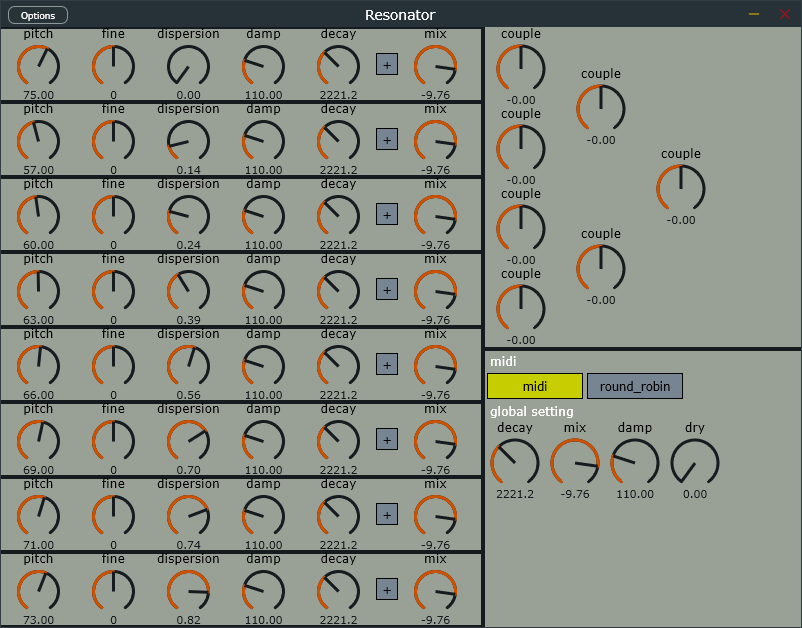
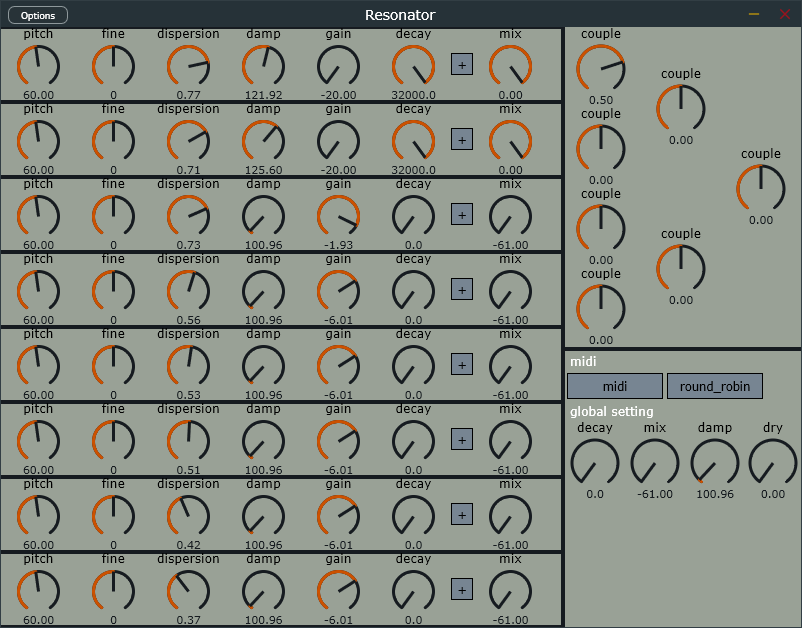
update

diff --git a/plugins/resonator/source/PluginProcessor.cpp b/plugins/resonator/source/PluginProcessor.cpp
@@ -43,6 +43,15 @@ ResonatorAudioProcessor::ResonatorAudioProcessor()
         damp_pitch_[i] = p.get();
         layout.add(std::move(p));
     }
+    for (size_t i = 0; i < kNumResonators; ++i) {
+        auto p = std::make_unique<juce::AudioParameterFloat>(
+            juce::String{"gain"} + juce::String{i},
+            juce::String{"gain"} + juce::String{i},
+            -20.0f, 0.0f, -6.01f
+        );
+        damp_gain_db_[i] = p.get();
+        layout.add(std::move(p));
+    }
     {
         auto p = std::make_unique<juce::AudioParameterFloat>(
             "global_damp",
@@ -95,7 +104,7 @@ ResonatorAudioProcessor::ResonatorAudioProcessor()
         auto p = std::make_unique<juce::AudioParameterFloat>(
             juce::String{"reflection"} + juce::String{i},
             juce::String{"reflection"} + juce::String{i},
-            -std::numbers::pi_v<float>, std::numbers::pi_v<float>, 0.0f
+            -1.0f, 1.0f, 0.0f
         );
         matrix_reflections_[i] = p.get();
         layout.add(std::move(p));
@@ -242,6 +251,9 @@ void ResonatorAudioProcessor::prepareToPlay (double sampleRate, int samplesPerBl
     delay_.Init(sampleRate, 0.0f);
     delay_.Reset();
     dispersion_.Reset();
+    for (auto& v : frac_delay_) {
+        v.Reset();
+    }
 }
 
 void ResonatorAudioProcessor::releaseResources()
@@ -304,16 +316,18 @@ void ResonatorAudioProcessor::processBlock (juce::AudioBuffer<float>& buffer,
 
     // update scatter matrix
     for (size_t i = 0; i < ScatterMatrix::kNumReflections; ++i) {
-        reflections_[i] = matrix_reflections_[i]->get();
+        reflections_[i] = matrix_reflections_[i]->get() * std::numbers::pi_v<float>;
     }
 
     // update damp filter
     std::array<float, kNumResonators> damp_w;
+    std::array<float, kNumResonators> damp_db;
     for (size_t i = 0; i < kNumResonators; ++i) {
         float const freq = qwqdsp::convert::Pitch2Freq(damp_pitch_[i]->get());
         damp_w[i] = freq * std::numbers::pi_v<float> * 2 / getSampleRate();
+        damp_db[i] = damp_gain_db_[i]->get();
     }
-    damp_.SetFrequency(damp_w);
+    damp_.SetFrequency(damp_w, damp_db);
 
     // update decays
     for (size_t i = 0; i < kNumResonators; ++i) {
@@ -417,6 +431,11 @@ void ResonatorAudioProcessor::ProcessCommon(juce::AudioBuffer<float>& buffer, ju
         delay_samples_[i] = std::max(delay_samples_[i], 0.0f);
     }
 
+    // process frac delays
+    for (size_t i = 0; i < kNumResonators; ++i) {
+        delay_samples_[i] = frac_delay_[i].SetDelay(delay_samples_[i]);
+    }
+
     // processing
     ProcessDSP(left_ptr, num_samples);
 
@@ -436,6 +455,9 @@ void ResonatorAudioProcessor::ProcessDSP(float* ptr, size_t len) {
         }
 
         delay_.Tick(fb_values_, delay_samples_);
+        for (size_t i = 0; i < kNumResonators; ++i) {
+            fb_values_[i] = frac_delay_[i].Tick(fb_values_[i]);
+        }
         dispersion_.Tick(fb_values_);
         damp_.Tick(fb_values_);
         matrix_.Tick(fb_values_, reflections_);
@@ -476,6 +498,9 @@ void ResonatorAudioProcessor::ProcessMidi(juce::AudioBuffer<float>& buffer, juce
                 // remove allpass delays
                 delay_samples_[resonator_idx] = delay_samples - allpass_delay;
                 delay_samples_[resonator_idx] = std::max(delay_samples_[resonator_idx], 0.0f);
+
+                // frac delay
+                delay_samples_[resonator_idx] = frac_delay_[resonator_idx].SetDelay(delay_samples_[resonator_idx]);
 
                 // addition input volume
                 input_volume_[resonator_idx] = message.getFloatVelocity();

diff --git a/plugins/resonator/source/PluginProcessor.h b/plugins/resonator/source/PluginProcessor.h
@@ -23,10 +23,13 @@ public:
         }
     }
 
-    void SetFrequency(const std::array<float, kNumResonators>& omega) noexcept {
+    void SetFrequency(
+        const std::array<float, kNumResonators>& omega,
+        const std::array<float, kNumResonators>& db
+    ) noexcept {
         for (size_t i = 0; i < kNumResonators; ++i) {
-            if (omega[i] < std::numbers::pi_v<float>) {
-                damp_[i].SetLPF(omega[i]);
+            if (omega[i] < std::numbers::pi_v<float> - 1e-5f) {
+                damp_[i].MakeHighShelf(omega[i], qwqdsp::convert::Db2Gain(db[i]));
             }
             else {
                 damp_[i].MakePass();
@@ -80,6 +83,47 @@ private:
 };
 
 // ---------------------------------------- delays ----------------------------------------
+// one pole all pass filter
+class TunningFilter {
+public:
+    float Tick(float in) noexcept {
+        auto v = latch_;
+        auto t = in - alpha_ * v;
+        latch_ = t;
+        return v + alpha_ * t;
+    }
+
+    void Reset() noexcept {
+        latch_ = 0;
+    }
+    
+    /**
+     * @brief 
+     * @param delay 环路延迟
+     * @return 还剩下多少延迟
+     */
+    int32_t SetDelay(float delay) noexcept {
+        // thiran delay limit to 0.5 ~ 1.5
+        if (delay < 0.5f) {
+            alpha_ = 0.0f; // equal to one delay
+            return 0;
+        }
+        else {
+            float intergalPart = std::floor(delay);
+            float fractionalPart = delay - intergalPart;
+            if (fractionalPart < 0.5f) {
+                fractionalPart += 1.0f;
+                intergalPart -= 1.0f;
+            }
+            alpha_ = (1.0f - fractionalPart) / (1.0f + fractionalPart);
+            return static_cast<int32_t>(intergalPart);
+        }
+    }
+private:
+    float latch_{};
+    float alpha_{};
+};
+
 class ParalleDelay {
 public:
     void Init(float fs, float min_pitch) {
@@ -151,10 +195,6 @@ private:
         float const outb = sink * a + cosk * b;
         a = outa;
         b = outb;
-        // float const outa = (1 + k) * a - k * b;
-        // float const outb = a * k + (1 - k) * b;
-        // a = outa;
-        // b = outb;
     }
 };
 
@@ -312,12 +352,14 @@ public:
 
     ParalleOnepole damp_;
     ParalleDelay delay_;
+    std::array<TunningFilter, kNumResonators> frac_delay_{};
     ParalleDispersion dispersion_;
     ScatterMatrix matrix_;
     std::array<float, kNumResonators> fb_values_{};
     std::array<juce::AudioParameterFloat*, kNumResonators> pitches_{};
     std::array<juce::AudioParameterFloat*, kNumResonators> fine_tune_{};
     std::array<juce::AudioParameterFloat*, kNumResonators> damp_pitch_{};
+    std::array<juce::AudioParameterFloat*, kNumResonators> damp_gain_db_{};
     std::array<juce::AudioParameterFloat*, kNumResonators> dispersion_pole_radius_{};
     std::array<juce::AudioParameterFloat*, kNumResonators> decays_{};
     std::array<juce::AudioParameterBool*, kNumResonators> polarity_{};

diff --git a/plugins/resonator/source/PluginEditor.cpp b/plugins/resonator/source/PluginEditor.cpp
@@ -22,6 +22,9 @@ ResonatorGUI::ResonatorGUI(ResonatorAudioProcessor& p, size_t idx)
     damp_.BindParam(apvts, juce::String{"damp"} + juce::String{idx});
     addAndMakeVisible(damp_);
 
+    gain_.BindParam(apvts, juce::String{"gain"} + juce::String{idx});
+    addAndMakeVisible(gain_);
+
     decay_.BindParam(apvts, juce::String{"decay"} + juce::String{idx});
     addAndMakeVisible(decay_);
 
@@ -40,6 +43,7 @@ void ResonatorGUI::resized() {
     fine_.setBounds(b.removeFromLeft(b.getHeight()));
     dispersion_.setBounds(b.removeFromLeft(b.getHeight()));
     damp_.setBounds(b.removeFromLeft(b.getHeight()));
+    gain_.setBounds(b.removeFromLeft(b.getHeight()));
     decay_.setBounds(b.removeFromLeft(b.getHeight()));
     auto polarity_width = b.getHeight() * 0.3f;
     polarity_.setBounds(b.removeFromLeft(polarity_width).withSizeKeepingCentre(polarity_width, polarity_width));
@@ -134,7 +138,7 @@ void ResonatorAudioProcessorEditor::paint (juce::Graphics& g) {
 
     g.setColour(ui::green_bg);
     auto b = getLocalBounds();
-    b.removeFromLeft(80 * 6);
+    b.removeFromLeft(80 * 7);
     b.removeFromLeft(4);
     auto matrix_b = b.removeFromTop(80 * 4);
     g.fillRect(matrix_b);
@@ -147,7 +151,7 @@ void ResonatorAudioProcessorEditor::paint (juce::Graphics& g) {
 void ResonatorAudioProcessorEditor::resized() {
     auto b = getLocalBounds();
     {
-        auto resonators = b.removeFromLeft(80 * 6);
+        auto resonators = b.removeFromLeft(80 * 7);
         auto height = resonators.getHeight() / 8;
         r0_.setBounds(resonators.removeFromTop(height));
         r1_.setBounds(resonators.removeFromTop(height));

diff --git a/plugins/resonator/source/ThrianAllpass.cpp b/plugins/resonator/source/ThrianAllpass.cpp
@@ -15,14 +15,18 @@ float ThrianAllpass::Process(float in) {
 }
 
 float ThrianAllpass::GetPhaseDelay(float omega) const {
-    auto cpx = std::polar(1.0f, omega);
-    auto up = a2_ * cpx * cpx + a1_ * cpx + 1.0f;
-    auto down = cpx * cpx + a1_ * cpx + a2_;
-    auto radius = -std::arg(up / down);
-    if (radius < 0) {
-        radius += twopi;
+    auto z = std::polar(1.0f, omega);
+    auto up = b0_ * z * z + a1_ * z + 1.0f;
+    auto down = z * z + a1_ * z + a2_;
+    // auto radius = -std::arg(up / down);
+    // if (radius < 0) {
+    //     radius += twopi;
+    // }
+    auto radius = std::arg(up / down);
+    if (radius > 0) {
+        radius -= twopi;
     }
-    return radius * kMaxNumAPF / omega;
+    return -radius * kMaxNumAPF / omega;
 }
 
 static constexpr float Something(float delay, int k) {
@@ -57,7 +61,7 @@ void ThrianAllpass::Panic() {
 
 std::complex<float> ThrianAllpass::GetResponce(float omega) const {
     auto z = std::polar(1.0f, omega);
-    auto up = a2_ * z * z + a1_ * z + 1.0f;
+    auto up = b0_ * z * z + a1_ * z + 1.0f;
     auto down = z * z + a1_ * z + a2_;
     return up / down;
 }

diff --git a/qwqdsp/include/qwqdsp/filter/one_pole.hpp b/qwqdsp/include/qwqdsp/filter/one_pole.hpp
@@ -28,6 +28,13 @@ public:
         a1_ = 0;
     }
 
+    void MakeHighShelf(float w, float amp) noexcept {
+        auto k = std::tan(w / 2);
+        b0_ = (k + amp) / (1 + k);
+        b1_ = (k - amp) / (1 + k);
+        a1_ = (k - 1) / (k + 1);
+    }
+
     void CopyFrom(const OnePoleFilter& other) noexcept {
         b0_ = other.b0_;
         b1_ = other.b1_;

diff --git a/plugins/resonator/source/PluginEditor.h b/plugins/resonator/source/PluginEditor.h
@@ -20,6 +20,7 @@ private:
     ui::Dial fine_{"fine"};
     ui::Dial dispersion_{"dispersion"};
     ui::Dial damp_{"damp"};
+    ui::Dial gain_{"gain"};
     ui::Dial decay_{"decay"};
     ui::Switch polarity_{"-", "+"};
     ui::Dial mix_{"mix"};

diff --git a/plugins/resonator/readme.md b/plugins/resonator/readme.md
@@ -1,6 +1,6 @@
 # resonator
-
-resonator is the rework version of [resonator](https://github.com/a5632645/resonator)
+resonator is the rework version of [resonator](https://github.com/a5632645/resonator)  
+actually it's sounding more like a waveguide instrument  
 
 ## features
 inharmonic using allpass filter  
@@ -8,9 +8,10 @@ midi control pitch
 couple matrix  
 
 ## todo
-- [ ]optimise cpu  
-- [ ]thrian interpolation for delayline  
-- [ ]correct delayline pitches  
+-[ ]optimise cpu  
+-[ ]thrian interpolation for delayline  
+-[ ]correct delayline pitches  
+-[ ]stereo channel processing  
 
 ## gui
 ![GUI](gui.png)
